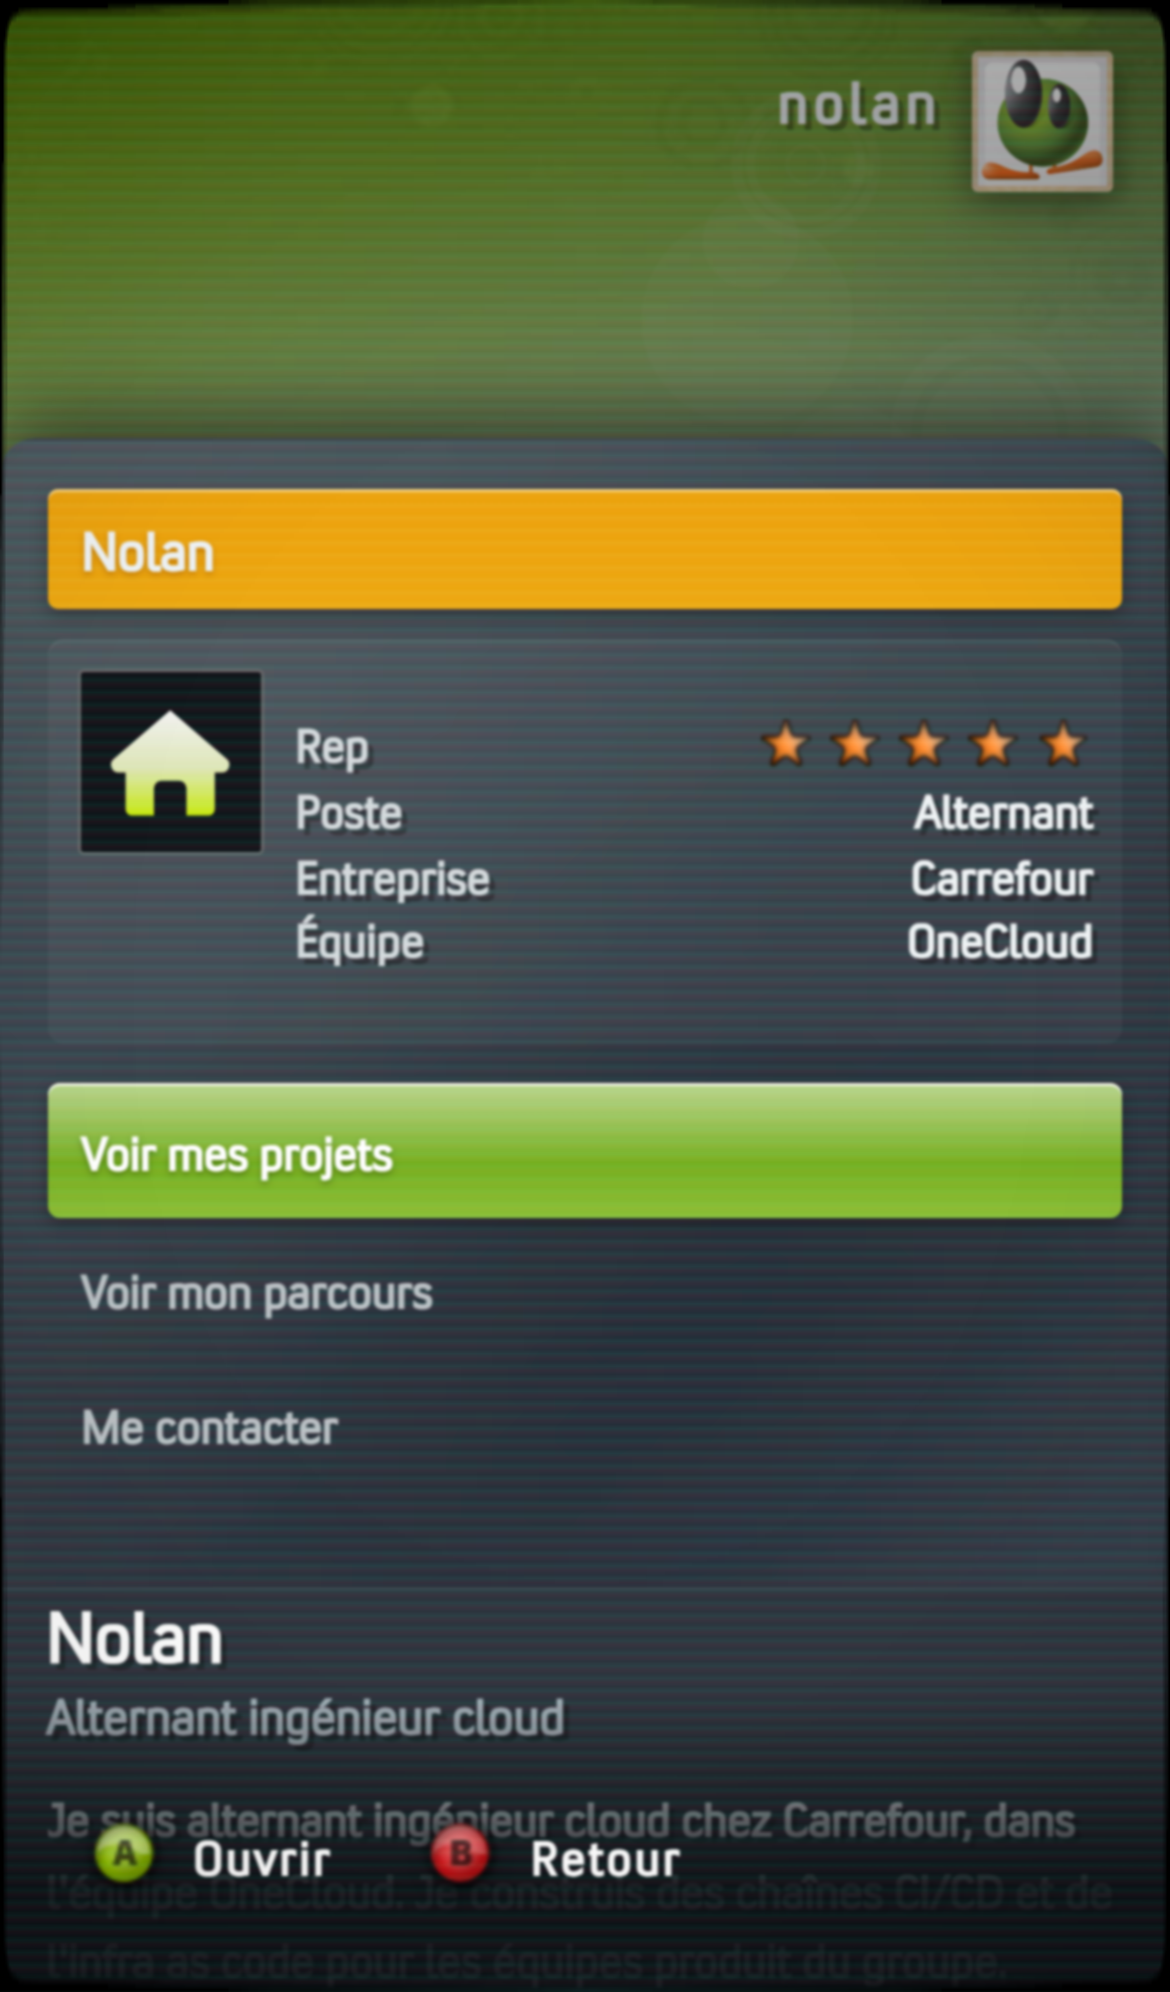
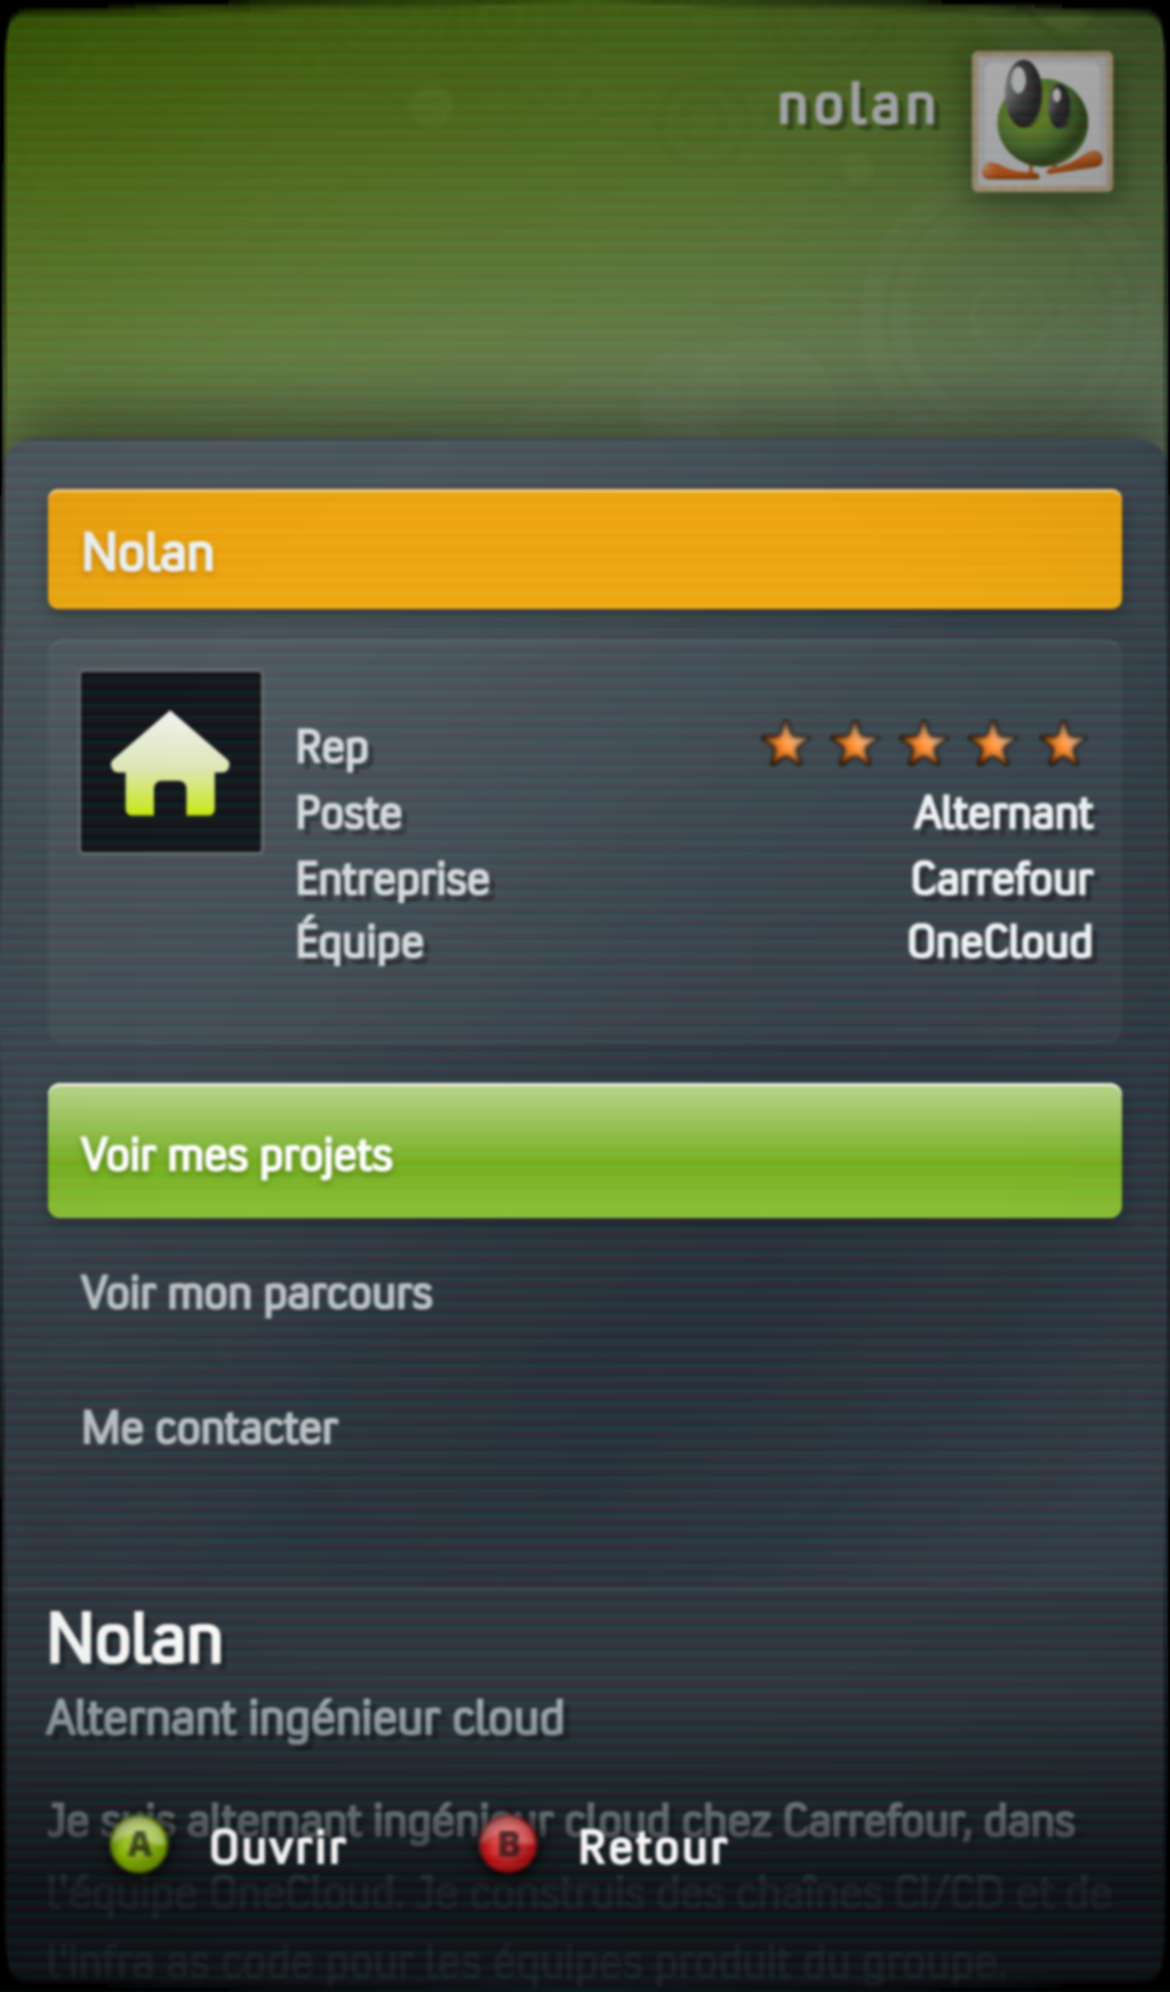
Le fil d'Ariane navigue, et corrige un décalage de géométrie
Les trois lignes en haut à gauche sont des boutons : la ligne du haut recule
d'une section, celle du bas avance, le nom du site ramène à l'accueil. C'était
le seul endroit du dashboard où rien n'était cliquable, et la flèche du haut
restait la seule façon de changer de section.

Corrige au passage une régression que `measure.mjs` a révélée et que je n'avais
pas vue : en transformant la légende en boutons deux commits plus tôt, le
`padding` et le `line-height: normal` du bouton avaient décalé la hauteur de
capitale de 4.9 px — hors tolérance, sans que rien ne bouge à l'écran. La zone
cliquable passe par un pseudo-élément, qui ne touche pas à la mise en page.
Ramené à -2.3 px. Le fil d'Ariane évite le même piège dès le départ (+0.8,
+0.1, +0.4).

Tests : 66 assertions, 0 échec sur cinq passages.

Changed region(s): [[0.3692, 0.9026, 0.6154, 0.9649], [0.0615, 0.9026, 0.3077, 0.9649]]

diff --git a/src/styles/dashboard.css b/src/styles/dashboard.css
@@ -160,6 +160,8 @@
    Fil d'Ariane à trois lignes : section précédente / nom du site / section
    courante. Les lignes remontent quand on change de section. */
 
+/* Les lignes sont des boutons depuis qu'elles naviguent : le conteneur laisse
+   donc passer les clics, mais chaque ligne les reçoit. */
 .header {
   position: absolute;
   left: var(--margin-x);
@@ -167,6 +169,12 @@
   line-height: 1;
   pointer-events: none;
   z-index: 40;
+}
+
+.crumb-titre {
+  margin: 0;
+  font: inherit;
+  font-weight: inherit;
 }
 
 /* Chaque ligne est positionnée par sa hauteur de capitale relevée sur image4
@@ -179,6 +187,16 @@
   white-space: nowrap;
   letter-spacing: var(--track-ui);
   margin: 0;
+  /* On neutralise le style natif du bouton mais on garde le focus clavier. */
+  pointer-events: auto;
+  background: none;
+  border: 0;
+  padding: 0;
+  font: inherit;
+  font-weight: inherit;
+  text-align: left;
+  cursor: pointer;
+  text-shadow: var(--ink-shadow);
   transition: transform var(--dur-slide) var(--ease-nxe),
     opacity var(--dur-slide) var(--ease-nxe);
 }
@@ -203,6 +221,12 @@
 
 .crumb.is-entering {
   animation: crumb-rise var(--dur-slide) var(--ease-nxe);
+}
+
+/* Le survol n'éclaircit que la ligne visée : c'est le seul indice qu'elle est
+   cliquable, le fil d'Ariane n'ayant l'air de rien d'autre qu'un titre. */
+.crumb:hover {
+  color: #ffffff;
 }
 
 @keyframes crumb-rise {
@@ -505,11 +529,24 @@
   white-space: nowrap;
   background: none;
   border: 0;
-  padding: 0.4vh 0.8vh;
-  margin: -0.4vh -0.8vh;
+  /* NI padding NI marge : `measure.mjs` calcule la hauteur de capitale depuis
+     le bord de la boîte, et un padding de 0.4 vh la faisait remonter de 3.4 px
+     — hors tolérance sans que rien ne bouge à l'écran. La zone cliquable est
+     élargie par un pseudo-élément, qui ne touche pas à la mise en page.
+     `line-height: 1` explicite : un bouton n'hérite pas de celui du corps, et
+     `normal` fausse le même calcul. */
+  padding: 0;
+  margin: 0;
   font: inherit;
+  line-height: 1;
+  position: relative;
   cursor: pointer;
-  border-radius: 0.6vh;
+}
+
+.legend-item::after {
+  content: '';
+  position: absolute;
+  inset: -0.7vh -1.1vh;
 }
 
 .legend-item:hover {

diff --git a/src/components/Chrome.tsx b/src/components/Chrome.tsx
@@ -31,18 +31,52 @@ export function Header({
   previous,
   current,
   hidden,
+  onPrevious,
+  onNext,
+  onHome,
 }: {
   previous: string
   current: string
   hidden?: boolean
+  onPrevious(): void
+  onNext(): void
+  onHome(): void
 }) {
   // image3 et image5 : quand une lame est ouverte, le fil d'Ariane disparaît.
   if (hidden) return null
+  /* Les trois lignes naviguent, chacune dans le sens que sa position indique :
+     le fil d'Ariane remonte quand on avance, donc la ligne du haut ramène en
+     arrière et celle du bas fait avancer. Le nom du site ramène à l'accueil,
+     comme un logo. Sans ça, seule la flèche du haut permettait de changer de
+     section. */
   return (
     <header className="header" key={current}>
-      <span className="crumb crumb-1 is-entering">{previous}</span>
-      <span className="crumb crumb-2 is-entering">{siteName}</span>
-      <h1 className="crumb crumb-3 is-entering">{current}</h1>
+      <button
+        type="button"
+        className="crumb crumb-1 is-entering"
+        onClick={onPrevious}
+        aria-label={`Aller à la section précédente : ${previous}`}
+      >
+        {previous}
+      </button>
+      <button
+        type="button"
+        className="crumb crumb-2 is-entering"
+        onClick={onHome}
+        aria-label="Revenir à l'accueil"
+      >
+        {siteName}
+      </button>
+      <h1 className="crumb-titre">
+        <button
+          type="button"
+          className="crumb crumb-3 is-entering"
+          onClick={onNext}
+          aria-label={`${current} — aller à la section suivante`}
+        >
+          {current}
+        </button>
+      </h1>
     </header>
   )
 }

diff --git a/src/App.tsx b/src/App.tsx
@@ -87,6 +87,20 @@ export default function App() {
     [play, rejouerRetour],
   )
 
+  /* Saut direct à une section, pour le nom du site qui ramène à l'accueil. */
+  const allerSection = useCallback(
+    (i: number) => {
+      setSectionIdx((cur) => {
+        if (i === cur) return cur
+        play('section')
+        setTileIdx(0)
+        rejouerRetour()
+        return i
+      })
+    },
+    [play, rejouerRetour],
+  )
+
   const open = useCallback(
     (i: number) => {
       setOpenIdx(i)
@@ -290,7 +304,14 @@ export default function App() {
         }`}
       >
       <Background />
-      <Header previous={previousLabel} current={section.label} hidden={!!openTile} />
+      <Header
+        previous={previousLabel}
+        current={section.label}
+        hidden={!!openTile}
+        onPrevious={() => moveSection(-1)}
+        onNext={() => moveSection(1)}
+        onHome={() => allerSection(0)}
+      />
       <Profile />
 
       <TileRow tiles={tiles} selected={tileIdx} onSelect={selectTile} onOpen={open} />

diff --git a/SPEC.md b/SPEC.md
@@ -356,6 +356,27 @@ ligne 3 `#ffffff`. Ombre `0 2px 5px rgba(0,0,0,.45)` sur les trois.
 
 ---
 
+### 3 bis. Le fil d'Ariane navigue
+
+C'était le seul endroit du dashboard où rien n'était cliquable, et la flèche du
+haut restait la seule façon de changer de section. Les trois lignes sont
+désormais des boutons, chacune dans le sens que sa position indique — le fil
+remonte quand on avance, donc la ligne du haut recule et celle du bas avance.
+Le nom du site ramène à l'accueil, comme un logo.
+
+**Écart assumé** : les références ne montrent aucune interaction ici, et pour
+cause, c'est une console. Rien ne change à l'écran, seul le survol éclaircit la
+ligne visée.
+
+**Piège déjà payé une fois sur la légende, évité ici** : un `<span>` devenu
+`<button>` ne doit recevoir ni `padding` ni `line-height: normal`. `measure.mjs`
+calcule la hauteur de capitale depuis le bord de la boîte : 0.4 vh de padding la
+faisait remonter de 3.4 px et sortait de la tolérance sans que rien ne bouge à
+l'écran. La zone cliquable s'élargit par un pseudo-élément, qui ne touche pas à
+la mise en page. Géométrie du fil après coup : +0.8, +0.1, +0.4 px.
+
+---
+
 ## 4. Pied de page
 
 Relevés sur image4 (distances depuis le bas du contenu, H = 1334) :

diff --git a/CLAUDE.md b/CLAUDE.md
@@ -114,6 +114,11 @@ Chacun a coûté au moins une itération. Ne les repaie pas.
 - Quand deux propriétés composent un même changement d'état (fond + couleur du texte),
   **transitionne les deux** — et vérifie qu'elles sont interpolables : un `linear-gradient`
   ne s'anime pas depuis `transparent`, il saute. Le plus sûr est de tout rendre instantané.
+- Transformer un `<span>` en `<button>` **déplace la géométrie** : `padding` et
+  `line-height: normal` faussent la hauteur de capitale que `measure.mjs` calcule depuis le
+  bord de la boîte. Élargis la zone cliquable par un pseudo-élément. Et **lance
+  `measure.mjs`** après tout changement de balise : je ne l'avais pas fait, l'écart est resté
+  deux commits.
 - **Un calque plein écran qui ferme quelque chose doit avoir un `z-index` explicite**, sinon
   il vole les clics de ses voisins. `.blade-scrim` l'a fait deux fois : à la légende, puis au
   panneau de détail (qui est en `z-index: -1` pour passer derrière la lame).

diff --git a/README.md b/README.md
@@ -42,6 +42,7 @@ Autres scripts :
 | **Entrée** | ouvrir la tuile / valider la ligne |
 | **Échap**, **Retour arrière** | revenir |
 | **Molette** | tuile précédente / suivante (le survol ne sélectionne plus) |
+| **Fil d'Ariane** | les trois lignes en haut à gauche naviguent : la ligne du haut recule d'une section, celle du bas avance, le nom du site ramène à l'accueil |
 | Souris | clic sur une tuile pour la sélectionner, clic sur la tuile sélectionnée pour l'ouvrir |
 | **Tab** | parcourt tuiles, boutons de légende et entrées de la lame |
 | **Espace** | comme Entrée |
